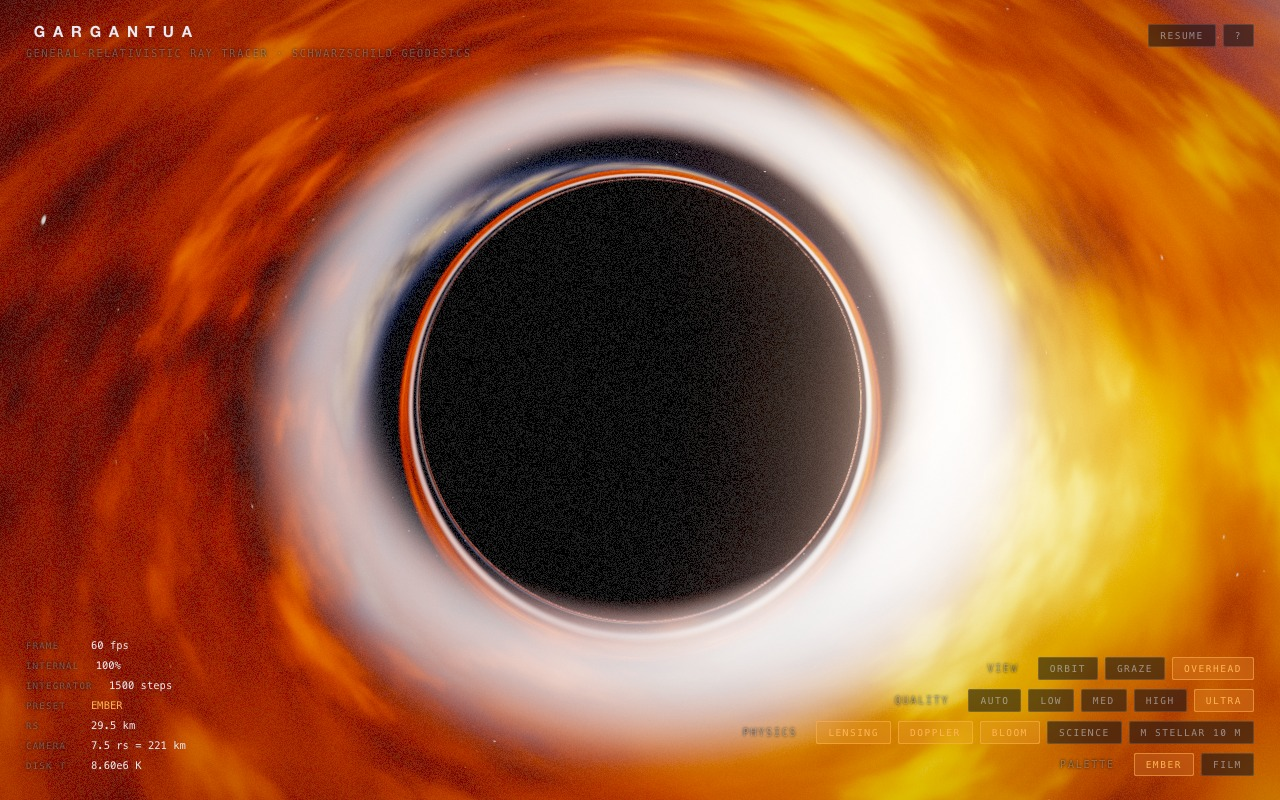
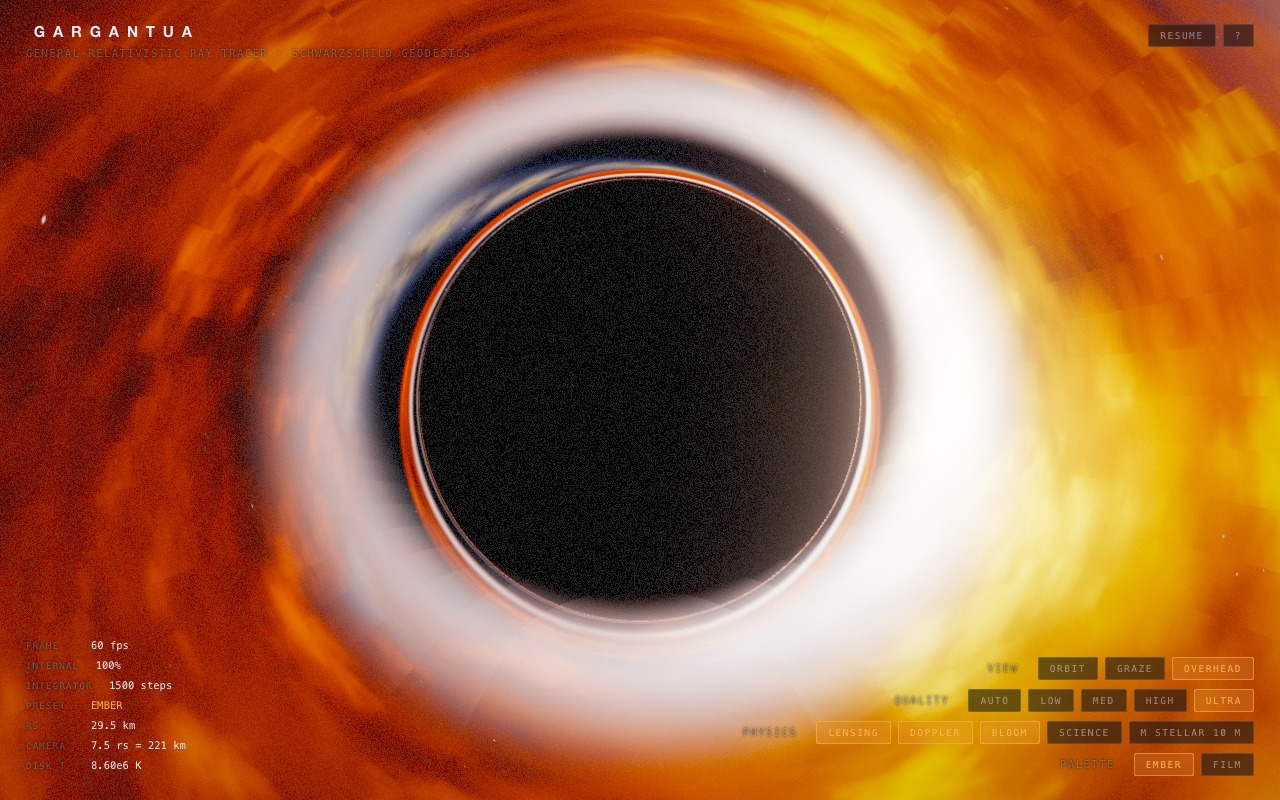
science(round16): dphi floor 0.6->0.35 — the old clamp saturated the ENTIRE strong field (constant step for r<1.71rs) while claiming refinement; gCeil comment corrected (physical max 1+beta<=1.93 — the round-13 '~2.9' justification was fabricated; ceiling is non-binding headroom); secant stagnation-

diff --git a/dist/bundle.js b/dist/bundle.js
@@ -4264,9 +4264,10 @@ vec4 diskSample(vec3 q, vec3 rayDir, float muDisk, float muPl){
      brightening the receding plunge band ~8x bolometric (round-4 emission
      audit); cinema keeps the guard to avoid dead-black bands */
   float gFloor = uScience > 0.5 ? 0.05 : 0.32;
-  /* science ceiling 3.0: the physical shift in the plunge band reaches ~2.9 \u2014
-     the old 1.95 ceiling clipped g^4 beaming from ~65 to ~14.5 there
-     (round-13 emission). Cinema keeps the tone guard. */
+  /* ceiling = non-binding headroom: the physical maximum under the implemented
+     kinematics is g = sqrt(f)/(gamma*(1-beta)) = 1+beta <= 1.93 (x gravObs ~1.04
+     at shipped cameras) \u2014 the round-13 claim that shifts reach ~2.9 was wrong
+     (round-16 hostile). 3.0 keeps headroom without binding. */
   float gCeil = uScience > 0.5 ? 3.0 : 1.95;
   float shift = clamp(mix(1.0, dopp*grav, uDoppler), gFloor, gCeil);
   /* I_obs = g^uBeamExp * I_em (4 = bolometric science, 3 = cinematic tone) */
@@ -4460,10 +4461,14 @@ vec3 trace(vec2 ndc){
        claimed this was handled when it wasn't; now it is). */
     bool coplanar = abs(e1.y) + abs(e2.y) < 1e-9;
 
-    /* adaptive phi-step: fine near the photon sphere (u~2/3) so winding
-       orbits get the budget. Cap 1.0 \u2014 larger far-field steps quantize the
-       terminal sky direction into visible rings (regression caught on S2). */
-    float dphi = uDtScale*0.09*clamp(0.35/u, 0.6, 1.0);
+    /* phi-step schedule: genuinely finer through the strong field \u2014 the old
+       0.6 floor saturated the clamp for ALL r < 1.71 rs (photon sphere
+       included), pinning a constant 0.054*dt step there while claiming
+       refinement (round-16 numerical). Floor 0.35 keeps the unclamped intent
+       at the photon sphere (0.047*dt) and refines further toward the horizon.
+       Cap 1.0 \u2014 larger far-field steps quantize the terminal sky direction
+       into visible rings (regression caught on S2). */
+    float dphi = uDtScale*0.09*clamp(0.35/u, 0.35, 1.0);
 
     /* RK4 step */
     float k1u = w,             k1w = BINET(u);
@@ -4484,6 +4489,7 @@ vec3 trace(vec2 ndc){
          raw linear interp; positional accuracy bounded by the surrogate's
          O(dphi^2) model bias (round-15 numerical) */
       float t0 = 0.0, t1 = 1.0, y0 = yPrev, y1 = yCur;
+      float fPrev = -1.0;
       float f = coplanar ? 0.5 : y0/(y0-y1);   /* coplanar: y\u22610 \u2014 sample the
           step midpoint (0/0 would NaN the secant) */
       for(int k=0;k<2;k++){
@@ -4493,6 +4499,12 @@ vec3 trace(vec2 ndc){
         float dy = y0 - y1;
         if(abs(dy) > 1e-12) f = t0 + y0*(t1-t0)/dy;   /* fp32 flush guard: 0/0
            would NaN f and silently swallow the crossing (round-11 numerical) */
+        /* regula falsi can pin one bracket endpoint and stagnate at the seed
+           on curved y \u2014 fall back to bisection when the iterate stops moving
+           (round-16 numerical: demonstrated sublinear convergence to t=0.003
+           for a root at t=0.15) */
+        if(abs(f - fPrev) < 1e-3) f = 0.5*(t0 + t1);
+        fPrev = f;
       }
       f = clamp(f, 0.0, 1.0);
       float uH = mix(u, uN, f);

diff --git a/dist/index.html b/dist/index.html
@@ -4552,9 +4552,10 @@ vec4 diskSample(vec3 q, vec3 rayDir, float muDisk, float muPl){
      brightening the receding plunge band ~8x bolometric (round-4 emission
      audit); cinema keeps the guard to avoid dead-black bands */
   float gFloor = uScience > 0.5 ? 0.05 : 0.32;
-  /* science ceiling 3.0: the physical shift in the plunge band reaches ~2.9 \u2014
-     the old 1.95 ceiling clipped g^4 beaming from ~65 to ~14.5 there
-     (round-13 emission). Cinema keeps the tone guard. */
+  /* ceiling = non-binding headroom: the physical maximum under the implemented
+     kinematics is g = sqrt(f)/(gamma*(1-beta)) = 1+beta <= 1.93 (x gravObs ~1.04
+     at shipped cameras) \u2014 the round-13 claim that shifts reach ~2.9 was wrong
+     (round-16 hostile). 3.0 keeps headroom without binding. */
   float gCeil = uScience > 0.5 ? 3.0 : 1.95;
   float shift = clamp(mix(1.0, dopp*grav, uDoppler), gFloor, gCeil);
   /* I_obs = g^uBeamExp * I_em (4 = bolometric science, 3 = cinematic tone) */
@@ -4748,10 +4749,14 @@ vec3 trace(vec2 ndc){
        claimed this was handled when it wasn't; now it is). */
     bool coplanar = abs(e1.y) + abs(e2.y) < 1e-9;
 
-    /* adaptive phi-step: fine near the photon sphere (u~2/3) so winding
-       orbits get the budget. Cap 1.0 \u2014 larger far-field steps quantize the
-       terminal sky direction into visible rings (regression caught on S2). */
-    float dphi = uDtScale*0.09*clamp(0.35/u, 0.6, 1.0);
+    /* phi-step schedule: genuinely finer through the strong field \u2014 the old
+       0.6 floor saturated the clamp for ALL r < 1.71 rs (photon sphere
+       included), pinning a constant 0.054*dt step there while claiming
+       refinement (round-16 numerical). Floor 0.35 keeps the unclamped intent
+       at the photon sphere (0.047*dt) and refines further toward the horizon.
+       Cap 1.0 \u2014 larger far-field steps quantize the terminal sky direction
+       into visible rings (regression caught on S2). */
+    float dphi = uDtScale*0.09*clamp(0.35/u, 0.35, 1.0);
 
     /* RK4 step */
     float k1u = w,             k1w = BINET(u);
@@ -4772,6 +4777,7 @@ vec3 trace(vec2 ndc){
          raw linear interp; positional accuracy bounded by the surrogate's
          O(dphi^2) model bias (round-15 numerical) */
       float t0 = 0.0, t1 = 1.0, y0 = yPrev, y1 = yCur;
+      float fPrev = -1.0;
       float f = coplanar ? 0.5 : y0/(y0-y1);   /* coplanar: y\u22610 \u2014 sample the
           step midpoint (0/0 would NaN the secant) */
       for(int k=0;k<2;k++){
@@ -4781,6 +4787,12 @@ vec3 trace(vec2 ndc){
         float dy = y0 - y1;
         if(abs(dy) > 1e-12) f = t0 + y0*(t1-t0)/dy;   /* fp32 flush guard: 0/0
            would NaN f and silently swallow the crossing (round-11 numerical) */
+        /* regula falsi can pin one bracket endpoint and stagnate at the seed
+           on curved y \u2014 fall back to bisection when the iterate stops moving
+           (round-16 numerical: demonstrated sublinear convergence to t=0.003
+           for a root at t=0.15) */
+        if(abs(f - fPrev) < 1e-3) f = 0.5*(t0 + t1);
+        fPrev = f;
       }
       f = clamp(f, 0.0, 1.0);
       float uH = mix(u, uN, f);

diff --git a/index.html b/index.html
@@ -4552,9 +4552,10 @@ vec4 diskSample(vec3 q, vec3 rayDir, float muDisk, float muPl){
      brightening the receding plunge band ~8x bolometric (round-4 emission
      audit); cinema keeps the guard to avoid dead-black bands */
   float gFloor = uScience > 0.5 ? 0.05 : 0.32;
-  /* science ceiling 3.0: the physical shift in the plunge band reaches ~2.9 \u2014
-     the old 1.95 ceiling clipped g^4 beaming from ~65 to ~14.5 there
-     (round-13 emission). Cinema keeps the tone guard. */
+  /* ceiling = non-binding headroom: the physical maximum under the implemented
+     kinematics is g = sqrt(f)/(gamma*(1-beta)) = 1+beta <= 1.93 (x gravObs ~1.04
+     at shipped cameras) \u2014 the round-13 claim that shifts reach ~2.9 was wrong
+     (round-16 hostile). 3.0 keeps headroom without binding. */
   float gCeil = uScience > 0.5 ? 3.0 : 1.95;
   float shift = clamp(mix(1.0, dopp*grav, uDoppler), gFloor, gCeil);
   /* I_obs = g^uBeamExp * I_em (4 = bolometric science, 3 = cinematic tone) */
@@ -4748,10 +4749,14 @@ vec3 trace(vec2 ndc){
        claimed this was handled when it wasn't; now it is). */
     bool coplanar = abs(e1.y) + abs(e2.y) < 1e-9;
 
-    /* adaptive phi-step: fine near the photon sphere (u~2/3) so winding
-       orbits get the budget. Cap 1.0 \u2014 larger far-field steps quantize the
-       terminal sky direction into visible rings (regression caught on S2). */
-    float dphi = uDtScale*0.09*clamp(0.35/u, 0.6, 1.0);
+    /* phi-step schedule: genuinely finer through the strong field \u2014 the old
+       0.6 floor saturated the clamp for ALL r < 1.71 rs (photon sphere
+       included), pinning a constant 0.054*dt step there while claiming
+       refinement (round-16 numerical). Floor 0.35 keeps the unclamped intent
+       at the photon sphere (0.047*dt) and refines further toward the horizon.
+       Cap 1.0 \u2014 larger far-field steps quantize the terminal sky direction
+       into visible rings (regression caught on S2). */
+    float dphi = uDtScale*0.09*clamp(0.35/u, 0.35, 1.0);
 
     /* RK4 step */
     float k1u = w,             k1w = BINET(u);
@@ -4772,6 +4777,7 @@ vec3 trace(vec2 ndc){
          raw linear interp; positional accuracy bounded by the surrogate's
          O(dphi^2) model bias (round-15 numerical) */
       float t0 = 0.0, t1 = 1.0, y0 = yPrev, y1 = yCur;
+      float fPrev = -1.0;
       float f = coplanar ? 0.5 : y0/(y0-y1);   /* coplanar: y\u22610 \u2014 sample the
           step midpoint (0/0 would NaN the secant) */
       for(int k=0;k<2;k++){
@@ -4781,6 +4787,12 @@ vec3 trace(vec2 ndc){
         float dy = y0 - y1;
         if(abs(dy) > 1e-12) f = t0 + y0*(t1-t0)/dy;   /* fp32 flush guard: 0/0
            would NaN f and silently swallow the crossing (round-11 numerical) */
+        /* regula falsi can pin one bracket endpoint and stagnate at the seed
+           on curved y \u2014 fall back to bisection when the iterate stops moving
+           (round-16 numerical: demonstrated sublinear convergence to t=0.003
+           for a root at t=0.15) */
+        if(abs(f - fPrev) < 1e-3) f = 0.5*(t0 + t1);
+        fPrev = f;
       }
       f = clamp(f, 0.0, 1.0);
       float uH = mix(u, uN, f);

diff --git a/src/shaders.js b/src/shaders.js
@@ -167,9 +167,10 @@ vec4 diskSample(vec3 q, vec3 rayDir, float muDisk, float muPl){
      brightening the receding plunge band ~8x bolometric (round-4 emission
      audit); cinema keeps the guard to avoid dead-black bands */
   float gFloor = uScience > 0.5 ? 0.05 : 0.32;
-  /* science ceiling 3.0: the physical shift in the plunge band reaches ~2.9 —
-     the old 1.95 ceiling clipped g^4 beaming from ~65 to ~14.5 there
-     (round-13 emission). Cinema keeps the tone guard. */
+  /* ceiling = non-binding headroom: the physical maximum under the implemented
+     kinematics is g = sqrt(f)/(gamma*(1-beta)) = 1+beta <= 1.93 (x gravObs ~1.04
+     at shipped cameras) — the round-13 claim that shifts reach ~2.9 was wrong
+     (round-16 hostile). 3.0 keeps headroom without binding. */
   float gCeil = uScience > 0.5 ? 3.0 : 1.95;
   float shift = clamp(mix(1.0, dopp*grav, uDoppler), gFloor, gCeil);
   /* I_obs = g^uBeamExp * I_em (4 = bolometric science, 3 = cinematic tone) */
@@ -363,10 +364,14 @@ vec3 trace(vec2 ndc){
        claimed this was handled when it wasn't; now it is). */
     bool coplanar = abs(e1.y) + abs(e2.y) < 1e-9;
 
-    /* adaptive phi-step: fine near the photon sphere (u~2/3) so winding
-       orbits get the budget. Cap 1.0 — larger far-field steps quantize the
-       terminal sky direction into visible rings (regression caught on S2). */
-    float dphi = uDtScale*0.09*clamp(0.35/u, 0.6, 1.0);
+    /* phi-step schedule: genuinely finer through the strong field — the old
+       0.6 floor saturated the clamp for ALL r < 1.71 rs (photon sphere
+       included), pinning a constant 0.054*dt step there while claiming
+       refinement (round-16 numerical). Floor 0.35 keeps the unclamped intent
+       at the photon sphere (0.047*dt) and refines further toward the horizon.
+       Cap 1.0 — larger far-field steps quantize the terminal sky direction
+       into visible rings (regression caught on S2). */
+    float dphi = uDtScale*0.09*clamp(0.35/u, 0.35, 1.0);
 
     /* RK4 step */
     float k1u = w,             k1w = BINET(u);
@@ -387,6 +392,7 @@ vec3 trace(vec2 ndc){
          raw linear interp; positional accuracy bounded by the surrogate's
          O(dphi^2) model bias (round-15 numerical) */
       float t0 = 0.0, t1 = 1.0, y0 = yPrev, y1 = yCur;
+      float fPrev = -1.0;
       float f = coplanar ? 0.5 : y0/(y0-y1);   /* coplanar: y≡0 — sample the
           step midpoint (0/0 would NaN the secant) */
       for(int k=0;k<2;k++){
@@ -396,6 +402,12 @@ vec3 trace(vec2 ndc){
         float dy = y0 - y1;
         if(abs(dy) > 1e-12) f = t0 + y0*(t1-t0)/dy;   /* fp32 flush guard: 0/0
            would NaN f and silently swallow the crossing (round-11 numerical) */
+        /* regula falsi can pin one bracket endpoint and stagnate at the seed
+           on curved y — fall back to bisection when the iterate stops moving
+           (round-16 numerical: demonstrated sublinear convergence to t=0.003
+           for a root at t=0.15) */
+        if(abs(f - fPrev) < 1e-3) f = 0.5*(t0 + t1);
+        fPrev = f;
       }
       f = clamp(f, 0.0, 1.0);
       float uH = mix(u, uN, f);
